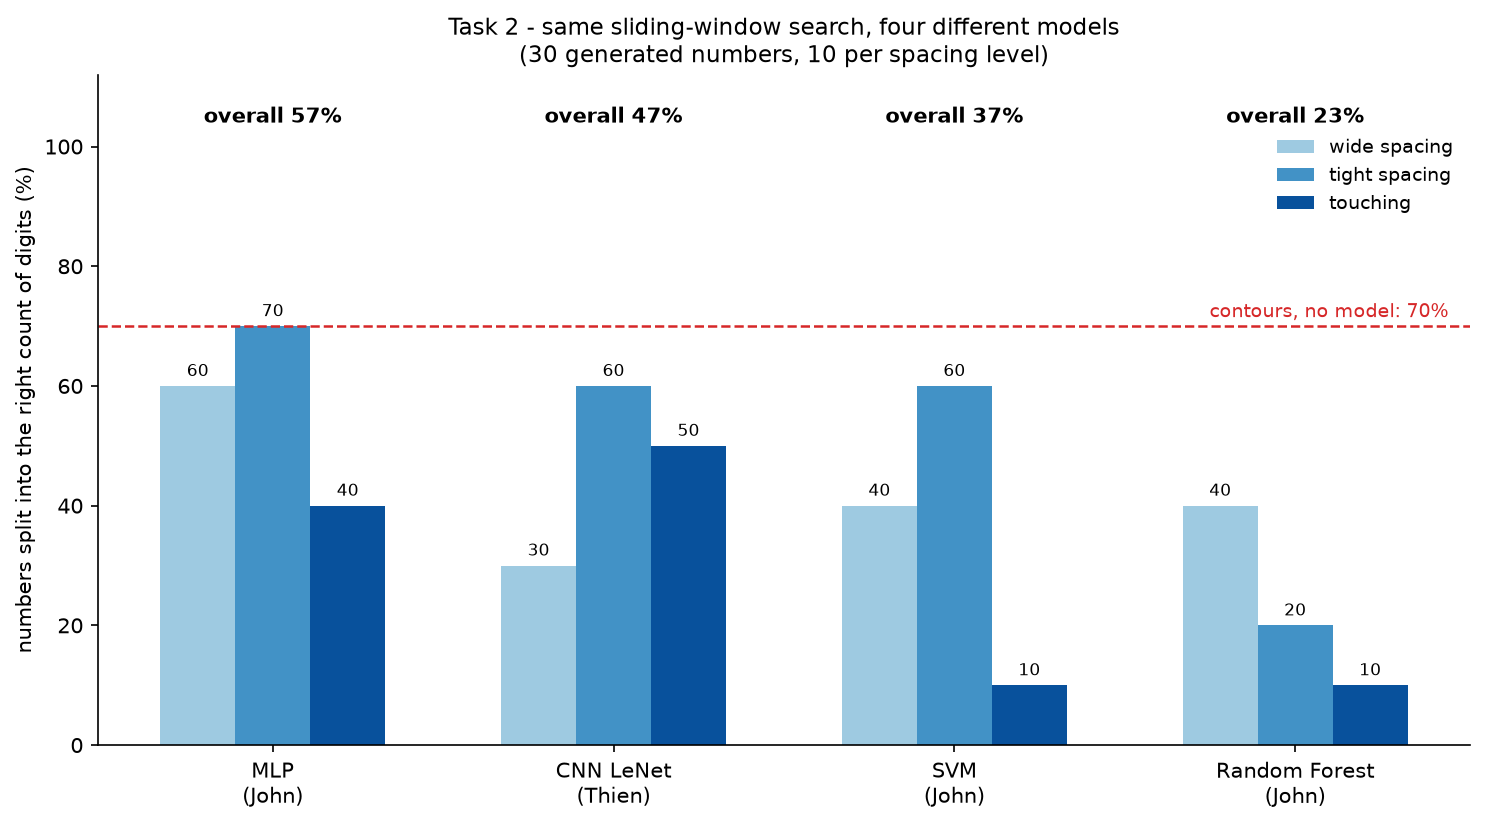
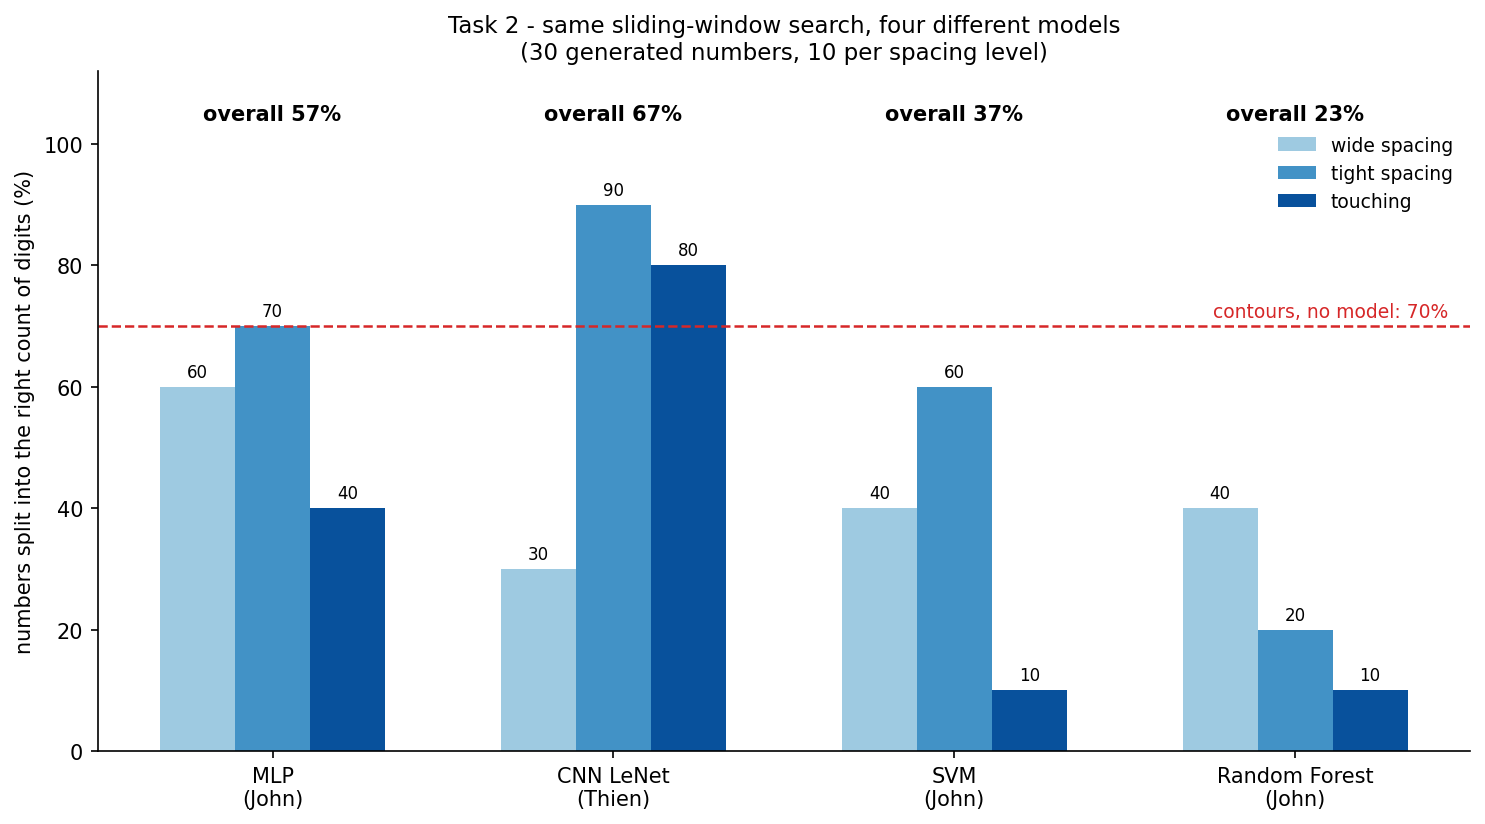
Re-measure after merging main: Thien's retrained LeNet changes sliding_cnn and the real-digit figures

diff --git a/reports/worklog_john.md b/reports/worklog_john.md
@@ -138,6 +138,8 @@ Results on the same 30 images, final run on my own machine (`reports/segmentatio
 | sliding_svm | model | 37% | 40% | 60% | 10% |
 | sliding_rf | model | 23% | 40% | 20% | 10% |
 
+*Superseded in Week 9: `sliding_cnn` is now 67% / 30% / 90% / 80% after Thien retrained the LeNet checkpoint. See the Week 9 entry. Every other row is unchanged.*
+
 **Correction to an earlier draft of this entry.** A first run had `cutpoint_mlp` at 90% on touching digits and I wrote that up as the headline. That number was measured before the `to_patch()` fix described below, when the classifiers were scoring patches in a different format from the one they were trained on. After the fix it is 60%, the same as projection. The honest result is that none of the ten methods gets past 60% on touching digits: the model-based family does not break the ceiling I had documented, it only matches it. The figure `reports/segmentation_touching.png` from that first run was also out of date; both Task 2 figures are now produced by `experiments/make_segmentation_figures.py` so they always match the current code.
 
 What survives is a different reading of the table. The two families fail in different places: `cutpoint_mlp` is strong on tight and touching digits but the worst on well-separated ones (40%), because it over-segments when there is nothing to resolve, while the classical methods are the reverse. `confidence_split` runs the cheap classical step first and only asks the model where the blob geometry says a decision is needed, and it comes second overall at a fraction of the sliding window's cost.
@@ -218,6 +220,8 @@ Segmentation and preprocessing interact, so I chose them together: every segment
 | otsu | 82.9% | 7% |
 | grayscale_only (Sprint 2 choice) | 32.9% | 0% |
 
+*Superseded in Week 9: re-measured against the retrained LeNet checkpoint. See the Week 9 entry.*
+
 This is the result that justifies the 20x20 box. On single digits it made no difference to Otsu at all - both read 58 of 70 - because those crops already carry a margin of paper. End to end it is the whole difference: segmentation hands over tight crops, a plain resize stretches each one to fill the frame, and Otsu without the box falls from 83% to 7%. With the box it reads 63% of whole numbers, and 90% of individual digits in the numbers that were segmented correctly.
 
 On MNIST, `otsu_mnist_box` scores 0.960 +/- 0.005, and all eight configurations fall within run-to-run noise of one another - expected, since MNIST digits already sit in a 20x20 box, so the box has nothing to correct there. The spread only appears on real photos: 20% to 83% on single digits, 0% to 63% on whole numbers.
@@ -226,10 +230,52 @@ On MNIST, `otsu_mnist_box` scores 0.960 +/- 0.005, and all eight configurations 
 
 The remaining error is now mostly segmentation, not recognition. Of the 10 numbers read wrongly, 7 were split into the wrong number of pieces - 6 because the digits touch, one because the top bar of a 5 came away as a separate blob - and only 3 were segmented correctly but misread. Touching digits are the limit of the whole system, not only of Task 2.
 
+### Week 9 - merged main, and the numbers moved
+
+Before opening the pull request I merged `origin/main` into my branch, which was eight commits behind. One conflict, in `requirements.txt`, where Russell had added `tkinterdnd2` and a looser pytest pin than mine; I kept both lines and my pin. All 97 tests still pass after the merge.
+
+The merge also brought Thien's retrained `cnn_lenet.keras` (29 September: 30-epoch budget, patience 5, LR-on-plateau, 0.9909 test accuracy). My code loads that checkpoint in two places, `digit_classifier.py` for the sliding-window segmenters and `evaluate_custom.py` for reading the crops, so I re-ran both comparisons rather than keep numbers measured against a file that no longer exists.
+
+**Generated images.** Only `sliding_cnn` moved. The nine methods that do not load the checkpoint are identical to the last run, which is the check that the change came from where I thought it did.
+
+| sliding_cnn | Overall | wide | tight | touching |
+|---|---|---|---|---|
+| old checkpoint | 47% | 30% | 60% | 50% |
+| new checkpoint | 67% | 30% | 90% | 80% |
+
+That reverses what I wrote earlier. The CNN now segments *better* than my MLP, 67% against 57%, not worse, so the "being able to say no matters more than recognition accuracy" reading does not hold at this checkpoint. It also breaks the ceiling I had documented: `sliding_cnn` reads 80% of touching digits where the best classical method manages 60%. Touching digits were the case I said the model-based family could not win, and on generated images one of them now does.
+
+**Real handwriting.** This is the first run with all ten methods on the real set; the earlier run only covered the four classical ones.
+
+| Method | Generated | Real, exact number |
+|---|---|---|
+| contours (selected) | 70% | **63%** |
+| confidence_split | 80% | **63%** |
+| cutpoint_mlp | 60% | 19% |
+| sliding_cnn | 67% | 7% |
+| sliding_mlp | 57% | 7% |
+
+The model-based family does not survive real photographs. `sliding_cnn` goes from 67% to 7%. The exception is `confidence_split`, which ties contours exactly, and it is the one that runs the cheap classical step first and calls the model only where the blob geometry says a decision is needed. The sliding window is what fails: it scores every window position, and real paper gives it far more places to be confidently wrong than a generated image does. I am keeping `contours` as `SELECTED_METHOD` because it matches on the headline figure and is far cheaper.
+
+**Preprocessing, re-measured on the 70 real digits.**
+
+| Configuration | Old checkpoint | New checkpoint |
+|---|---|---|
+| **otsu_mnist_box** (selected) | 82.9% | **84.3%** |
+| otsu_denoised_centered | 80.0% | 81.4% |
+| otsu | 82.9% | 78.6% |
+| adaptive | 51.4% | 61.4% |
+| grayscale_only | 32.9% | 54.3% |
+| adaptive_mnist_box | 20.0% | 40.0% |
+
+The selection survives, and is cleaner than before: `otsu_mnist_box` was tied three ways at 82.9%, and is now alone at the top on 59 of 70. End to end nothing moved at all - 63% of whole numbers read exactly, 90% of digits when the count is right - so the conclusion that the 20x20 box is what makes the tight crops work is unaffected. What did narrow is the gap I called out: `grayscale_only` went from 33% to 54%, so the distance between the worst and the best configuration is 30 points, not 50.
+
+The lesson I am recording for myself: a result is not reproducible just because the script is committed, if the script loads an artefact somebody else owns and nothing records which version of it was used. From here I note the checkpoint date next to any number that depends on it.
+
 ### Blockers / risks
 
-- Touching digits: no method passes 60%. To be documented as a limitation and re-tested on real handwriting.
-- The two `mnist_box` configurations have not been scored yet; that needs a run of `compare_preprocessing.py` on my machine, where TensorFlow is installed.
+- Touching digits remain the system limit on real handwriting: 2 of the 8 touching numbers are read correctly. On generated images `sliding_cnn` reaches 80%, but that does not carry over to photographs.
+- The MNIST comparison still reflects the previous LeNet training settings; `cnn_lenet.py` changed in the merge (20 to 30 epochs, patience 3 to 5, LR-on-plateau), so `compare_preprocessing.py` needs a re-run for those figures to match the checkpoint everything else now uses.
 - None of my code is on `main` yet, which blocks Russell's pipeline and Liam's evaluation. Opening the pull request is the first Sprint 3 action.
 - 70 real digits is enough to separate the Otsu family from the rest, not to rank within it.
 - One writer, one pen, one paper. The next step is a sheet from each teammate, and one sheet with a black pen, lined paper and a side light.
